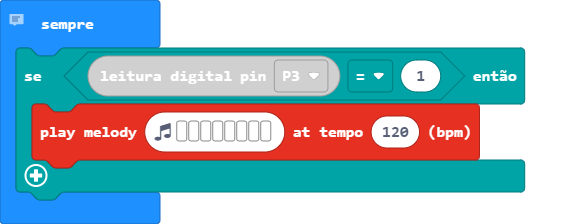
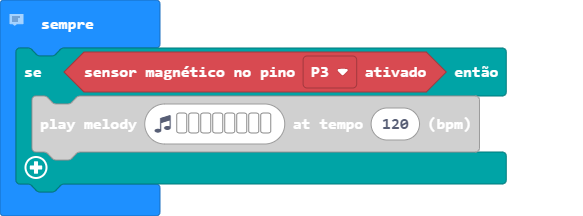
Update main.blocks, main.ts

diff --git a/main.ts b/main.ts
@@ -1,6 +1,6 @@
 // www.hackids.com.br
 basic.forever(function () {
-    if (pins.digitalReadPin(DigitalPin.P3) == 1) {
+    if (hackbit.MagneticSwitchState(DigitalPin.P3)) {
         music.playMelody("C5 B A G F E D C ", 120)
     }
 })
